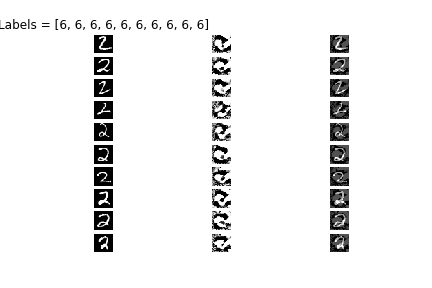
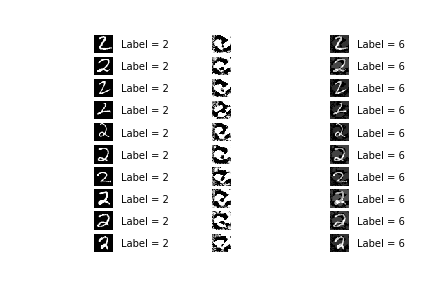
Added regularization. Stopped image from updating once the adversarial class obtains the highest probability. Modified plot_utils to display predicted labels near each image.

diff --git a/challenge.py b/challenge.py
@@ -55,7 +55,12 @@ def cnn_model_fn(features, labels, mode):
     if mode == tf.estimator.ModeKeys.PREDICT:
         # If adversarial labels were passed, compute the gradients
         if 'adv_labels' in features: 
+            
             loss = tf.losses.sparse_softmax_cross_entropy(labels=features["adv_labels"], logits=logits)
+            reg_losses = tf.get_collection(tf.GraphKeys.REGULARIZATION_LOSSES)
+            reg_lambda = features["reg_lambda"]
+            loss = loss + reg_lambda * sum(reg_losses)
+            
             gradients = tf.gradients(loss, [input_layer])[0]
             predictions['gradients'] = tf.reshape(gradients, (-1, 784))
         return tf.estimator.EstimatorSpec(mode=mode, predictions=predictions)
@@ -73,7 +78,10 @@ def cnn_model_fn(features, labels, mode):
     # Add evaluation metrics (for EVAL mode)    
     eval_metric_ops = {
       "accuracy": tf.metrics.accuracy(
-          labels=labels, predictions=predictions["classes"])}
+              labels=labels,
+              predictions=predictions["classes"]
+          )
+      }
       
     return tf.estimator.EstimatorSpec(
       mode=mode, loss=loss, eval_metric_ops=eval_metric_ops)
@@ -88,8 +96,9 @@ if __name__ == '__main__':
     parser.add_argument('-b', '--batch_size',   type=int,    default=64,      help='training batch size')
     parser.add_argument('-o', '--old_label',    type=int,    default=2,       help='label to replace')
     parser.add_argument('-n', '--new_label',    type=int,    default=6,       help='adversarial label')
-    parser.add_argument('-r', '--n_to_replace', type=int,    default=10,      help='number of images to replace')
-    parser.add_argument('-l', '--adv_lr',       type=float,  default=0.001,   help='adversarial learning rate')
+    parser.add_argument('-m', '--n_to_modify',  type=int,    default=10,      help='number of images to modify')
+    parser.add_argument('-l', '--adv_lr',       type=float,  default=0.001,  help='adversarial learning rate')
+    parser.add_argument('-r', '--reg_lambda',   type=float,  default=0.0001, help='regularization lambda')
     args = parser.parse_args()
     
     train      = args.train
@@ -99,9 +108,9 @@ if __name__ == '__main__':
     
     old_label    = args.old_label
     new_label    = args.new_label
-    n_to_replace = args.n_to_replace
+    n_to_modify  = args.n_to_modify
     adv_lr       = args.adv_lr
-    
+    reg_lambda   = args.reg_lambda
     
     # Load training data
     mnist = tf.contrib.learn.datasets.load_dataset("mnist")
@@ -143,7 +152,7 @@ if __name__ == '__main__':
         print('{}'.format(eval_results))
     
     # Obtain the indices of the images containing old label
-    indices = np.where(labels == old_label)[0][:n_to_replace]
+    indices = np.where(labels == old_label)[0][:n_to_modify]
     
     # Obtain all the images containing old label
     images = images[indices]
@@ -153,12 +162,17 @@ if __name__ == '__main__':
     adv_images = np.copy(images)
     adv_labels = np.zeros_like(labels) + new_label
     
+    # reg_lambda has to be an array with shape [n_to_modify, ...]
+    reg_lambda =  np.zeros_like(labels, dtype=np.float32) + reg_lambda
+    
+    # Infinite while loop that terminates once all of the images predict new_label
     while True:
         adv_pred_results = mnist_classifier.predict(
                 input_fn=tf.estimator.inputs.numpy_input_fn(
                     x={
                         "images":     adv_images,
-                        "adv_labels": adv_labels
+                        "adv_labels": adv_labels,
+                        "reg_lambda": reg_lambda
                     },
                     num_epochs=1,
                     shuffle=False)
@@ -166,25 +180,37 @@ if __name__ == '__main__':
         # Convert generator to list to reuse it later
         adv_pred_results = list(adv_pred_results)
         
-        
         # Obtain class labels
         classes   = [pred['classes'] for pred in adv_pred_results]
     
         # Reshape gradients and update the adversarial image
         gradients = np.asarray([pred['gradients'] for pred in adv_pred_results])
-        adv_images -= adv_lr * np.sign(gradients)
+        
+        # Determine  whether to update the adversarial image further or not
+        update = (np.asarray(classes) == old_label).reshape(-1, 1)
+        
+        # Perform the update
+        adv_images -= np.multiply(adv_lr*np.sign(gradients), update)
 #        plot(images, gradients, adv_images, classes)
     
         # Print adversarial probabilities to see the progress
-        adv_probabilities = []
+        print('Adversarial Probabilities = ', end='')
         for pred in adv_pred_results:
             probabilities = pred['probabilities'] * 100
-            adv_probabilities.append(probabilities[new_label])
-        print('Adversarial Probabilities = {}'.format(adv_probabilities))
+            print('{:10f}'.format(probabilities[new_label]), end='')
+        print()
         
         # If all images predict the adversarial label, break out of the loop
         if (np.asarray(classes) == new_label).all():
             break
+        
+    # Infer the classes of actual images
+    pred_input_fn = tf.estimator.inputs.numpy_input_fn(
+        x={"images": images},
+        num_epochs=1,
+        shuffle=False)
+    pred_results = mnist_classifier.predict(input_fn=pred_input_fn)
+    classes = [pred['classes'] for pred in pred_results]
     
     # Infer the classes of adversarial images
     pred_input_fn = tf.estimator.inputs.numpy_input_fn(
@@ -192,11 +218,11 @@ if __name__ == '__main__':
         num_epochs=1,
         shuffle=False)
     pred_results = mnist_classifier.predict(input_fn=pred_input_fn)
-    classes   = [pred['classes'] for pred in pred_results]
+    adv_classes = [pred['classes'] for pred in pred_results]
     
     # Compute the deltas
     deltas = adv_images - images
     
     # Plot and save the figure
-    fig = plot(images, deltas, adv_images, classes)
+    fig = plot(images, deltas, adv_images, classes, adv_classes)
     fig.savefig('challenge.png')

diff --git a/plot_utils.py b/plot_utils.py
@@ -1,6 +1,6 @@
 import matplotlib.pyplot as plt
 
-def plot(images, deltas, adv_images, labels=None, cmap='gray'):
+def plot(images, deltas, adv_images, classes=None, adv_classes=None, cmap='gray'):
     
     def reshape(x):
         return x.reshape(-1, 28, 28)
@@ -14,17 +14,15 @@ def plot(images, deltas, adv_images, labels=None, cmap='gray'):
     n_cols = 3
     for i in range(n_rows):
         
-        def plot_subplot(col, arr):
+        def plot_subplot(col, arr, title=''):
             ax = plt.subplot2grid((n_rows, n_cols), (i, col))
             ax.axis('off')
+            ax.text(40, 20, title)
             plt.imshow(arr[i].reshape((h, w)), cmap=cmap)
         
-        plot_subplot(0, images)
-        if i == 0:
-            plt.title("Labels = {}".format(labels))
-        
+        plot_subplot(0, images, 'Label = {}'.format(classes[i]))        
         plot_subplot(1, deltas)
-        plot_subplot(2, adv_images)
+        plot_subplot(2, adv_images, 'Label = {}'.format(adv_classes[i]))
         
     plt.show()
     return fig
